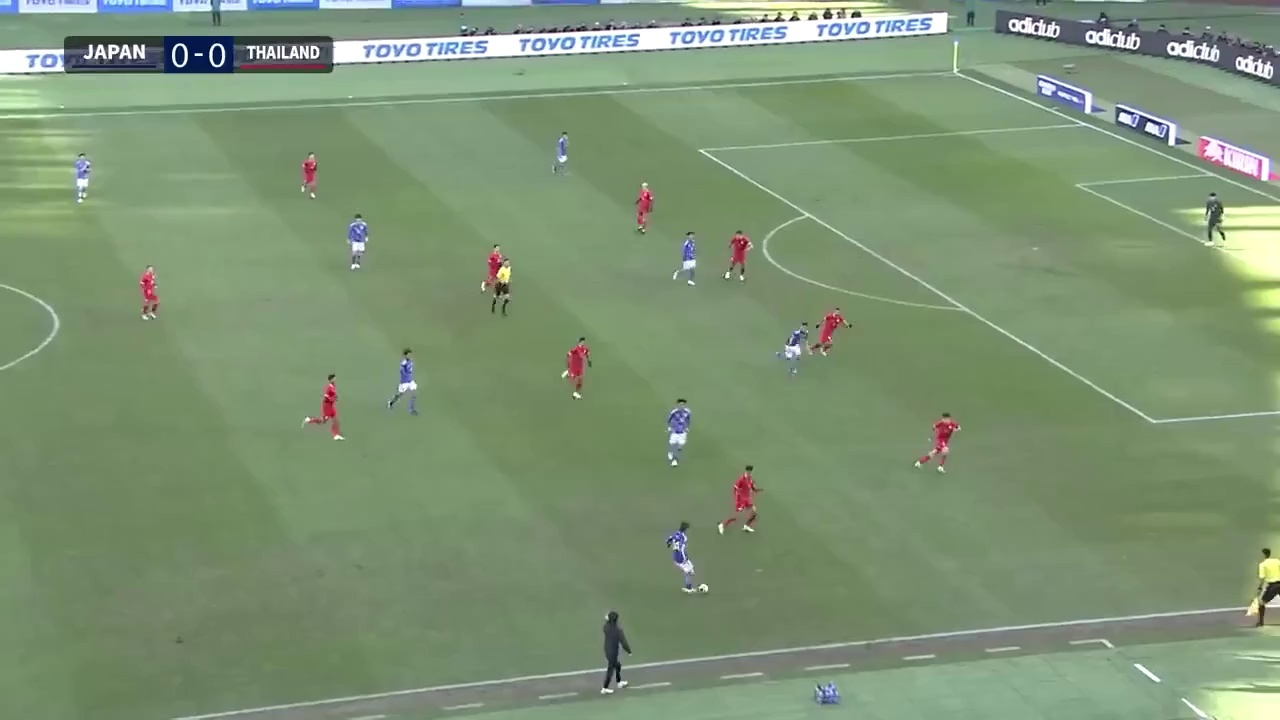
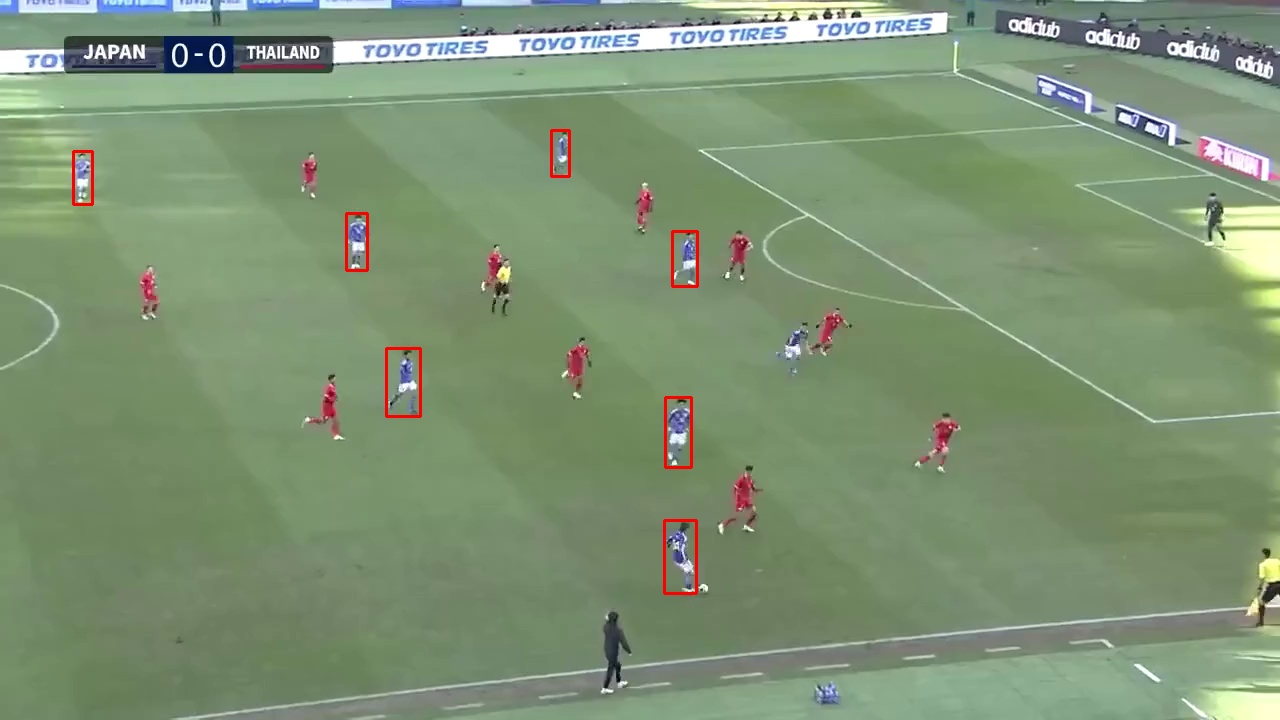
commit

diff --git a/ex5.py b/ex5.py
@@ -1,13 +1,43 @@
+from ultralytics import YOLO
 import cv2
 import numpy as np
-from ultralytics import YOLO
 
-# YOLOモデルの読み込み
+# YOLOモデルのロード
 model = YOLO("yolov8x.pt")
-img = cv2.imread('ex2.jpg')
+img = cv2.imread("ex2.jpg")
 
-results = model("ex2.jpg", save=True, save_txt=True, save_conf=True)
+# YOLOで物体検出
+results = model(img)
 boxes = results[0].boxes
 
+# HSV色空間で青色の範囲を定義
+lower = np.array([90, 64, 0])  
+upper = np.array([150, 255, 255])
+
+def is_blue_area(hsv_img, x1, y1, x2, y2):
+    # 領域を切り抜き
+    cropped_img = hsv_img[y1:y2, x1:x2]
+
+    # 青色領域のマスクを作成
+    mask = cv2.inRange(cropped_img, lower, upper)
+
+    # 青色ピクセルの割合を計算
+    blue_ratio = cv2.countNonZero(mask) / (cropped_img.shape[0] * cropped_img.shape[1])
+
+    # 青色領域と判定
+    return blue_ratio > 0.1  
+
+# HSV色空間に変換
+hsv_image = cv2.cvtColor(img, cv2.COLOR_BGR2HSV)
+
+# 検出された領域を確認し、青色領域なら赤枠で描画
+for box in boxes:
+    x1, y1, x2, y2 = map(int, box.data[0][:4])  # バウンディングボックス座標を取得
+    if is_blue_area(hsv_image, x1, y1, x2, y2):  # 青色領域かを判定
+        cv2.rectangle(img, (x1, y1), (x2, y2), (0, 0, 255), 2)
+
+# 結果を保存および表示
+cv2.imwrite("ex5_output.jpg", img)
+cv2.imshow("sample", img)  
 cv2.waitKey(0)
 cv2.destroyAllWindows()
